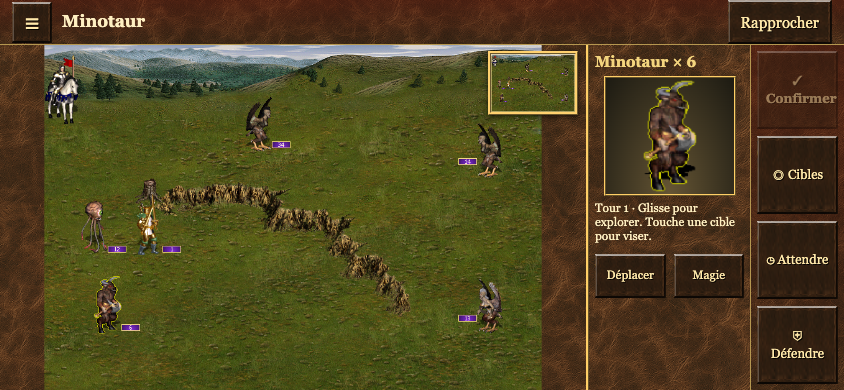
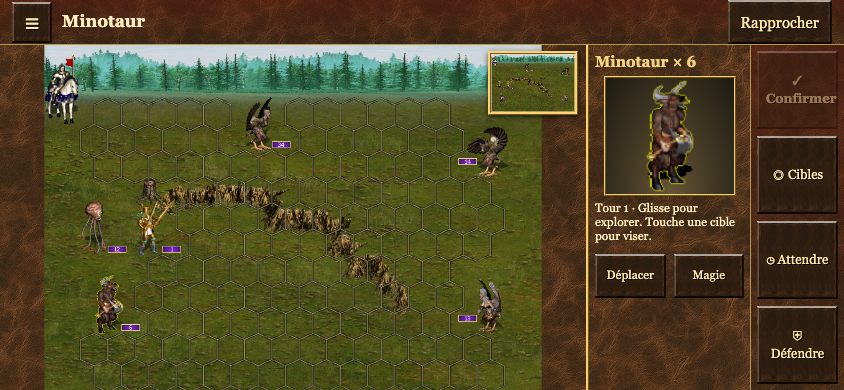
Fix mobile battle view taps and restore transparent battlefield grid

Changed region(s): [[0.0308, 0.0923, 0.6777, 1.0], [0.7393, 0.1846, 0.8318, 0.4923]]

diff --git a/web/h3-theme.css b/web/h3-theme.css
@@ -60,3 +60,5 @@
 @media(orientation:landscape) and (max-height:600px){#mobile-app[data-mode=battle][data-battle-view=native] .mobile-play{display:grid;grid-template-columns:minmax(0,1fr) 164px;grid-template-rows:minmax(0,1fr)}#mobile-app[data-mode=battle][data-battle-view=native] #mobile-scene{height:100%;grid-column:1;grid-row:1}#mobile-app[data-mode=battle][data-battle-view=native] .battle-panel{height:100%;max-height:none;grid-column:2;grid-row:1;display:flex;flex-direction:column;align-items:stretch;overflow-y:auto;gap:5px;padding:6px;border-top:0;border-left:3px ridge #ba974b}#mobile-app[data-mode=battle][data-battle-view=native] .battle-turn{order:1;max-height:none;font-size:15px}#battle-creature-detail{order:2;width:132px;height:120px;min-height:80px;align-self:center}#mobile-app[data-mode=battle][data-battle-view=native] .battle-selection{order:3;font-size:12px}#mobile-app[data-mode=battle][data-battle-view=native] .battle-tools{order:4;grid-template-columns:repeat(2,minmax(0,1fr));flex:0 0 auto}#mobile-app[data-mode=battle][data-battle-view=native] #mobile-overview{width:84px;height:58px;right:172px;top:6px}}
 
 @media(orientation:landscape) and (max-height:360px){#battle-creature-detail{height:92px;min-height:80px}#mobile-app[data-mode=battle][data-battle-view=native] .battle-selection{font-size:11px}}
+
+.mobile-top{position:relative;z-index:4}.battle-view{position:relative;z-index:5;pointer-events:auto;touch-action:manipulation;user-select:none;-webkit-user-select:none}

diff --git a/README.md b/README.md
@@ -172,3 +172,11 @@ Les réglages mobiles masquent par défaut la grille permanente, les plages de d
 Le test avec les créatures classiques a révélé une inversion rouge/bleu dans l’atlas des portraits : les blitters DEF utilisent la disposition ARGB du moteur. Les portraits sont désormais dessinés en ARGB puis convertis en RGBA uniquement avant l’envoi au navigateur. Le moteur a été recompilé avec `ninja -j32 html5` et l’archive publiée est `outputs/vcmi-wasm-goonk-0.4.2-engine.tar.gz`.
 
 Validation : 32 tests automatiques ; `native-battle-layout-e2e.mjs` contrôle les proportions, les limites d’écran, les clics et les grands portraits sous Chromium et WebKit à trois tailles de téléphone. `native-battle-e2e.mjs` observe plusieurs images animées, termine un combat Goonk réel et recharge la sauvegarde après la victoire. `native-classic-battle-e2e.mjs` vérifie une Harpie classique, ses couleurs et un déplacement réel ; seule la carte en mémoire de ce navigateur de test reçoit cette armée, la carte publiée reste intacte. Ces scripts remplacent les anciens essais de plateau abstrait et de cadrage classique. Captures et rapports : `outputs/native-battle-*` et `outputs/native-classic-*`. Le moteur complet a été testé sous Chromium, sans prétendre à un essai sur iPhone physique.
+
+## Bouton de vue et grille de combat (0.4.3)
+
+Le libellé du bouton de cadrage n’est plus réécrit pendant chaque image du combat. Le bouton a son propre gestionnaire d’appui : activation au relâchement, capture de pointeur et dédoublonnage du clic de compatibilité ; clavier et technologies d’assistance gardent leur accès. Son en-tête passe explicitement devant la scène. Une cible préparée est conservée lors du passage entre vue entière et rapprochée.
+
+La grille est désormais visible en permanence par-dessus le terrain natif : contours fins et transparents, sans tuiles opaques. Elle reprend les centres et la géométrie des hexagones du moteur ; les lignes proches des créatures sont omises pour préserver leur dessin. Les cases accessibles restent mises en évidence lorsqu’on prépare un déplacement. Quand aucun stack actif n’est encore publié à l’ouverture du combat, la caméra cherche une créature amie plutôt que de rester au centre d’un terrain vide.
+
+Validation : 36 tests automatiques, appui maintenu pendant 220 ms et stabilité du libellé pendant le rendu continu sous Chromium et WebKit, vérification des coordonnées en vue entière et des commandes en portrait/paysage. Le test dans le vrai moteur vérifie le passage à la vue entière, le retour au cadrage rapproché et un déplacement de Harpie. Captures : `outputs/combat-grid-whole.png` et `outputs/native-classic-*.png`. Les vérifications navigateur ne remplacent pas un essai sur iPhone physique.
